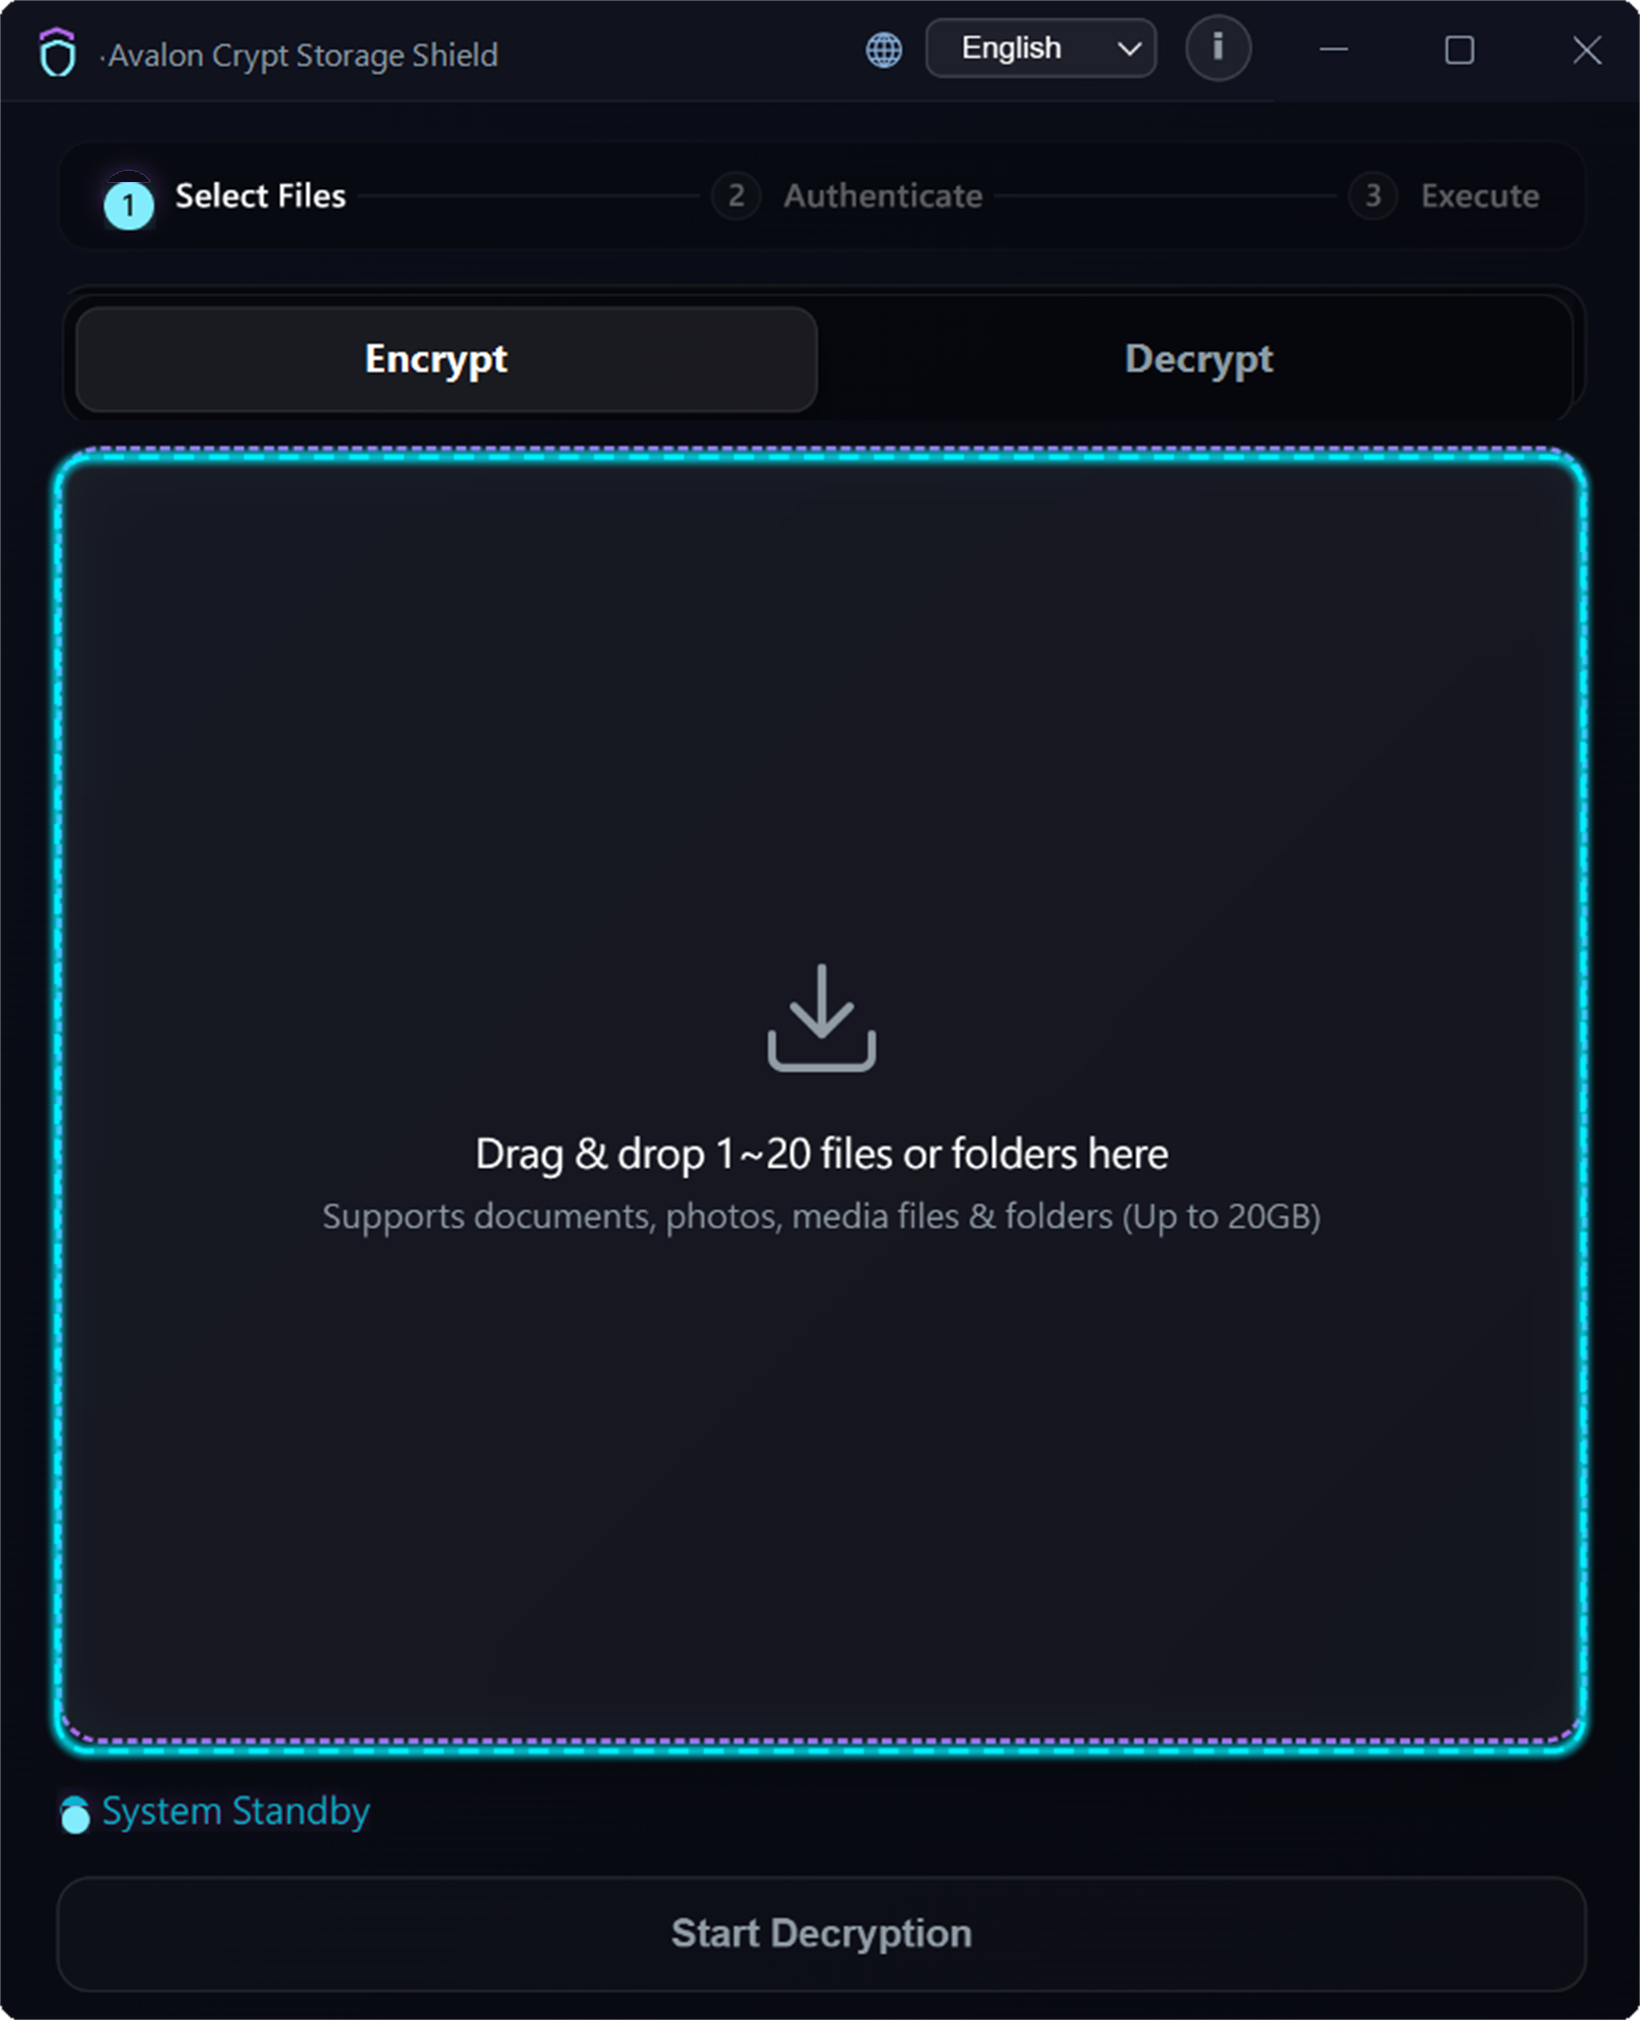
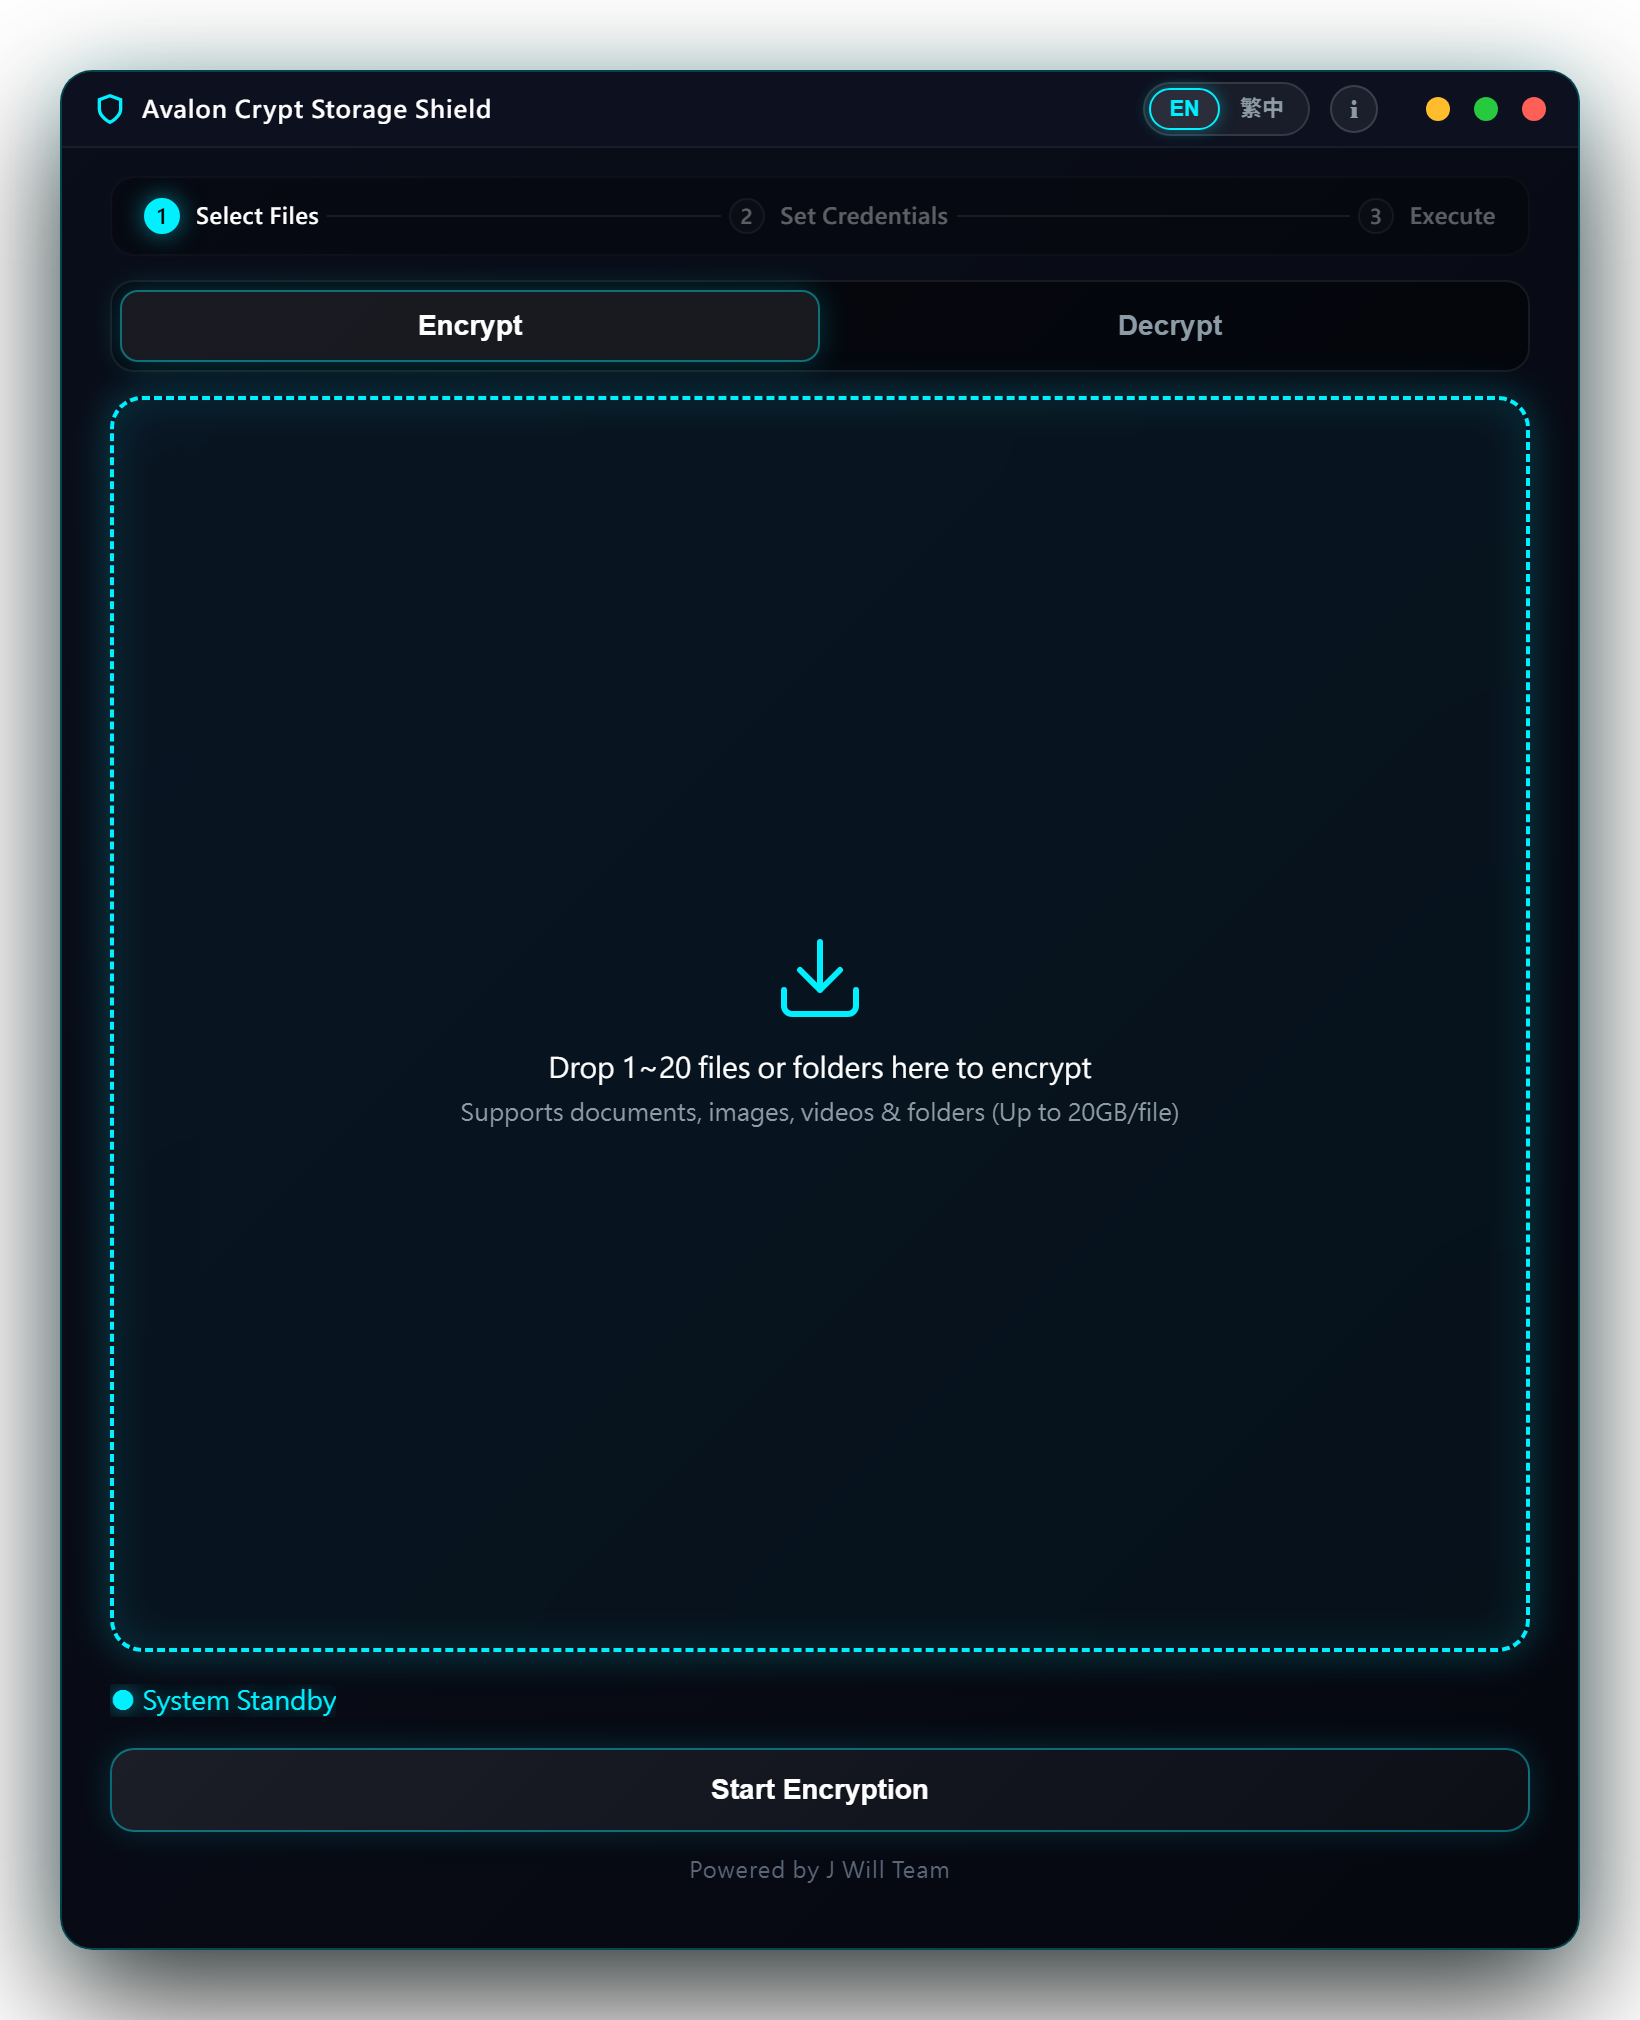
Add files via upload

diff --git a/index.html b/index.html
@@ -1538,70 +1538,70 @@
 
     <!-- 邏輯腳本：雙語切換、雙軌切換、手風琴、贊助互動 -->
     <script>
-        const i18nData = {
+                const i18nData = {
             zh: {
                 nav_features: "產品特色",
-                nav_donate: "☕ 贊助支持",
+                nav_donate: "☕ 支持團隊",
                 nav_faq: "常見問題",
                 nav_team: "J Will 團隊",
                 nav_dl_pill: "⬇ 下載 (v1.0.3)",
-                hero_badge: "Post-Quantum Architecture ｜ 100% Air-Gapped Offline ｜ v1.0.3 Stable",
-                hero_title: "Beyond Conventional AES.<br>Next-Gen Defense for Your <span>Digital Assets</span>",
-                hero_subtitle: "Engineered on proprietary CB Tec Post-Quantum Geometric Permutation Architecture. Zero backdoors, zero telemetry, constant memory streaming up to 20GB, and intelligent dual-rail queues.",
-                h_item1: "✦ 100% Offline Air-Gapped Operation, Zero-Disk Residue (0 Byte temp)",
-                h_item2: "✦ Constant O(1) Memory Consumption (Anti-OOM), Zero crash on massive files",
-                h_item3: "✦ Full Support for High-Entropy Passphrases, Zero Master-Key Backdoors",
-                hero_btn_dl: "⬇ Download JBA128G3_Setup_v1.0.3.exe",
-                hero_btn_donate: "☕ Buy Us a Coffee (Donate)",
-                spec_os: "OS: ",
-                spec_size: "Size: ",
-                spec_license: "License: ",
-                btn_copy_sha: "Copy SHA-256",
-                hero_track_hint: "Click to preview interface mode",
+                hero_badge: "後量子空間幾何架構 ｜ 100% 純單機離線 ｜ v1.0.3 穩定版",
+                hero_title: "超越傳統 AES 體系・後量子空間幾何架構的<br><span>數位資產安全防線</span>",
+                hero_subtitle: "基於 CB Tec 後量子幾何置換架構。單機零後門、零日誌政策，支援 20GB 大檔案常數級防爆串流與智慧佇列。",
+                h_item1: "✦ 100% 離線純淨封閉運算，磁碟 0 Byte 暫存殘留",
+                h_item2: "✦ 常數級記憶體消耗 (Anti-OOM)，大檔絕不溢位閃退",
+                h_item3: "✦ 支援中文與高強度長短語密碼憑證，無原廠主金鑰後門",
+                hero_btn_dl: "⬇ 立即下載 JBA128G3_Setup_v1.0.3.exe",
+                hero_btn_donate: "☕ 支持團隊 (贊助)",
+                spec_os: "系統：",
+                spec_size: "大小：",
+                spec_license: "授權：",
+                btn_copy_sha: "複製校驗碼",
+                hero_track_hint: "👉 點擊切換實機模式預覽 ▾",
                 hero_tab_encrypt: "🛡 加密模式",
                 hero_tab_decrypt: "🔓 解密模式",
-                hero_tag_encrypt: "● 科技青軌模式 (English UI)",
-                hero_tag_decrypt: "● 防護紫軌模式 (繁中介面)",
+                hero_tag_encrypt: "● 科技青軌模式 (加密)",
+                hero_tag_decrypt: "● 防護紫軌模式 (解密)",
                 feat_badge: "CORE ARCHITECTURE",
                 feat_title: "自主研發・四大核心技術防線",
-                feat_desc: "以嚴苛空間幾何數學架構保障極致個人隱私，點擊卡片下方即可檢視原廠演算法規範。",
-                f1_title: "抗量子暴力破譯",
-                f1_simple: "未來的量子超級電腦亦無法破解。自主幾何空間流式置換，徹底摒棄傳統公開加密庫之運算盲點。",
-                f1_tech: "底層演算法非傳統 AES 家族，採用自主研發之新世代幾何串流置換架構，具備抵禦未來量子運算暴力破譯特性 (Post-Quantum Security Grade)。",
-                f2_title: "20GB 大檔流暢防爆",
-                f2_simple: "超大檔案流暢處理不卡頓。無論單檔 500MB 或 20GB，記憶體始終維持極低佔用，絕不溢位閃退。",
-                f2_tech: "支援單檔最高達 20GB 超大檔案。資料採串流流水線分塊處理，記憶體消耗維持為 O(1) 常數級，與檔案大小脫鉤，徹底杜絕記憶體溢位閃退 (Anti-OOM)。",
-                f3_title: "0 殘留單機零後門",
-                f3_simple: "關閉程式後電腦不留任何蛛絲馬跡。完全無原廠後門與通用金鑰，密碼若遺失連原廠亦無法破解。",
-                f3_tech: "全程單機封閉式離線運算，不寫入任何操作歷史或金鑰日誌，磁碟達 0 Byte 殘留。無通用主金鑰 (Master Key)，金鑰主權 100% 歸使用者掌控。",
-                f4_title: "整包資料夾直接封裝",
-                f4_simple: "支援完整資料夾直接拖入封裝。智慧雙軌平行運算，解密時目錄階層原封不動完整還原。",
-                f4_tech: "專用 .jbs 封裝支援整個資料夾遞迴加密與結構還原。內建多 Worker 平行運算工作池，單次支援 1~20 個任務批次拖入，智慧分流加解密軌道。",
-                tech_btn_expand: "深入技術原理 ▼",
-                tech_btn_collapse: "收起技術原理 ▲",
-                donate_badge: "SUPPORT INDEPENDENT CRYPTO RESEARCH",
-                donate_title: "支持獨立研發・守護單機淨土",
-                donate_desc: "我們堅持不接資本收購、不插商業廣告、不暗藏任何後門。您的每份心意，都是支援底層密碼學創新的最大動力。",
-                don_c1: "請研發團隊喝杯咖啡<br>(約 NT$160)",
-                don_c2: "雙倍起司披薩深夜補給<br>(約 NT$480)",
-                don_c3: "先鋒贊助者名冊銘謝<br>(約 NT$930)",
-                don_custom: "自訂金額",
-                don_custom_desc: "自由填寫贊助心意<br>為抗量子演算法加值",
-                label_msg: "留下你想對 J Will 開發團隊說的話（選填）：",
-                btn_submit_donate: "透過 Buy Me a Coffee 支持我們",
-                crypto_title: "🌐 亦支援加密貨幣鏈上贊助（即將開放收款地址）：",
+                feat_desc: "以嚴密空間幾何架構捍衛個人資料絕對主權，點擊下方各卡片可展開核心技術深度解析。",
+                f1_title: "抗量子暴力破解",
+                f1_simple: "未來量子電腦無法破解。自主置換幾何流，消弭傳統代數漏洞。",
+                f1_tech: "摒棄傳統 AES 矩陣代數弱點，改採自主研發之新型多維空間幾何置換架構，具備抵禦未來量子計算之頂級防護能力。",
+                f2_title: "20GB 大檔流式處理",
+                f2_simple: "超大檔案流暢處理不卡死。無論 500MB 或 20GB，記憶體始終超低常數占用。",
+                f2_tech: "支援單檔最高達 20GB 之超大檔案串流處理。記憶體常數級 O(1) 消耗，絕不因檔案膨脹而閃退崩潰 (Anti-OOM)。",
+                f3_title: "0 殘留零後門",
+                f3_simple: "關閉程式不留蛛絲馬跡。無原廠主金鑰，密碼遺失連團隊都解不開。",
+                f3_tech: "純地端封閉運算，磁碟與記憶體 0 Byte 殘留。無任何主金鑰 (Master Key) 或後門設計，金鑰控制權 100% 歸使用者所有。",
+                f4_title: "完整目錄樹封裝",
+                f4_simple: "支援整包目錄拖曳封裝。多線程智慧佇列，解密時目錄層級原汁原味還原。",
+                f4_tech: "獨創 .jbs 封裝格式支援深層目錄樹無損壓縮加密。多 Worker 智慧併發運算，解密後完美還原原有目錄結構。",
+                tech_btn_expand: "深度技術解析 ▼",
+                tech_btn_collapse: "收合技術解析 ▲",
+                donate_badge: "SUPPORT INDEPENDENT RESEARCH",
+                donate_title: "支持獨立密碼學研發",
+                donate_desc: "我們不接受商業機構併購，零追蹤、零遙測、零後門。您的贊助將直接支持這項捍衛純粹隱私的研發工作。",
+                don_c1: "請工程師喝杯咖啡<br>(約 $5 USD)",
+                don_c2: "雙拼披薩能量補給<br>(約 $15 USD)",
+                don_c3: "先驅贊助者名錄<br>(約 $29 USD)",
+                don_custom: "自訂贊助金額",
+                don_custom_desc: "以您認同的金額，直接支持後量子獨立演算法研發",
+                label_msg: "給 J Will 團隊的鼓勵留言 (選填)：",
+                btn_submit_donate: "前往 Buy Me a Coffee 支持我們",
+                crypto_title: "🌐 亦支援加密貨幣直接打賞 (錢包地址即將公開)：",
                 faq_badge: "FREQUENTLY ASKED QUESTIONS",
-                faq_title: "常見問題與安全承諾",
-                faq_desc: "關於單機隱私、演算法機制與使用授權的真實解答。",
-                q1_title: "如果我忘記密碼，你們原廠救得回來嗎？",
-                q1_ans: "<strong>完全救不回來。</strong> Avalon Crypt 恪守「單機零後門」承諾，核心內部沒有任何原廠通用金鑰（Master Key）。密碼是解密 .jbs 封裝的唯一憑證，請務必妥善保管你的金鑰。",
-                q2_title: "軟體真的 100% 完全不需要連網嗎？",
-                q2_ans: "<strong>是的，完全無需連網。</strong> 軟體本體零網路依賴、零後台遙測通訊，即使在完全拔掉網路線、開啟飛航模式的純隔離環境下，亦能疾速進行加解密運算。",
+                faq_title: "常見問題解答",
+                faq_desc: "關於純粹單機隱私、演算法安全性與授權的所有解答。",
+                q1_title: "如果我忘記密碼，團隊能幫我找回或解密嗎？",
+                q1_ans: "<strong>絕對不行。</strong> Avalon Crypt 嚴守零後門原則，演算法中沒有任何重設通道或原廠萬能主金鑰。您的密碼是唯一的解密種子。",
+                q2_title: "軟體真的 100% 不會連上網路嗎？",
+                q2_ans: "<strong>是的，完全純地端隔離運行。</strong> 軟體編譯完全不包含任何網路通信庫與遙測代碼，即使拔掉網路線或處於飛航模式下也能正常執行運算。",
                 q3_title: "解密端接收檔案需要付費或授權嗎？",
                 q3_ans: "<strong>完全不需要。</strong> 我們遵循個人非營利免費授權原則，檔案接收方解密永遠免費、無需購買啟用碼，確保高價值機密檔案在持密各方之間安全自由流轉。",
                 team_desc: "J Will 團隊深耕於自主非 AES 幾何串流置換演算法、反數位鑑識與後量子密碼體系架構。Avalon Crypt 完全奠基於團隊原創之 CB Tec 技術體系。",
                 footer_cr: "Avalon Crypt ｜ Powered by J Will Team. All Rights Reserved.",
-                footer_license: "授權邊界：僅限個人非營利使用 (Personal Non-Commercial License Only)"
+                footer_license: "授權邊界：僅限個人非營利使用 (Personal Non-Commercial License Only)",
             },
             en: {
                 nav_features: "Features",
@@ -1611,7 +1611,7 @@
                 nav_dl_pill: "⬇ Download (v1.0.3)",
                 hero_badge: "Post-Quantum Architecture ｜ 100% Air-Gapped Offline ｜ v1.0.3 Stable",
                 hero_title: "Beyond Conventional AES.<br>Next-Gen Defense for Your <span>Digital Assets</span>",
-                hero_subtitle: "Engineered on proprietary CB Tec Post-Quantum Geometric Permutation Architecture. Zero backdoors, zero telemetry, constant memory streaming up to 20GB, and intelligent dual-rail queues.",
+                hero_subtitle: "Engineered on proprietary CB Tec Post-Quantum Geometric Permutation Architecture. Zero backdoors, zero telemetry, constant memory streaming up to 20GB, and intelligent queues.",
                 h_item1: "✦ 100% Offline Air-Gapped Operation, Zero-Disk Residue (0 Byte temp)",
                 h_item2: "✦ Constant O(1) Memory Consumption (Anti-OOM), Zero crash on massive files",
                 h_item3: "✦ Full Support for High-Entropy Passphrases, Zero Master-Key Backdoors",
@@ -1621,11 +1621,11 @@
                 spec_size: "Size:",
                 spec_license: "License:",
                 btn_copy_sha: "Copy SHA-256",
-                hero_track_hint: "Click to preview interface mode",
+                hero_track_hint: "👉 Click to preview interface mode ▾",
                 hero_tab_encrypt: "🛡 Encrypt Mode",
                 hero_tab_decrypt: "🔓 Decrypt Mode",
-                hero_tag_encrypt: "● Cyan Track Mode (English UI)",
-                hero_tag_decrypt: "● Purple Track Mode (zh-TW Native UI)",
+                hero_tag_encrypt: "● Encrypt Mode (Cyan)",
+                hero_tag_decrypt: "● Decrypt Mode (Purple)",
                 feat_badge: "CORE ARCHITECTURE",
                 feat_title: "Four Sovereign Layers of Cryptographic Defense",
                 feat_desc: "Built on rigorous spatial geometry to secure absolute personal sovereignty. Click below each card to inspect developer specifications.",
@@ -1665,7 +1665,7 @@
                 q3_ans: "<strong>Never.</strong> Decryption is permanently free under our Personal Non-Commercial License. File recipients never need to purchase activation keys to access their files.",
                 team_desc: "J Will Team specializes in proprietary non-AES geometric permutation ciphers, anti-forensics, and post-quantum crypto architecture. Avalon Crypt operates exclusively on the team's original CB Tec framework.",
                 footer_cr: "Avalon Crypt ｜ Powered by J Will Team. All Rights Reserved.",
-                footer_license: "License Boundary: Personal Non-Commercial License Only"
+                footer_license: "License Boundary: Personal Non-Commercial License Only",
             }
         };
 
